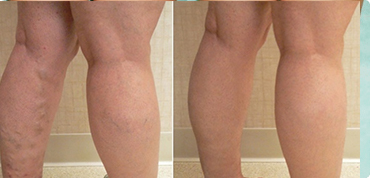
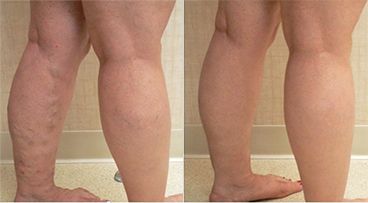
added before, after text to images (helped block)

diff --git a/src/styles/components/helped.scss b/src/styles/components/helped.scss
@@ -1,17 +1,18 @@
 .helped {
     &-block {
-        padding: 60px 0px;
+        padding: 50px 0px;
     }
     &__title {
         max-width: 900px;
-        margin-bottom: 25px;
         padding-top: 23px;
+        margin: 0 auto 34px;
     }
     &__list {
         display: flex;
         justify-content: space-between;
         align-items: center;
         margin-bottom: 30px;
+        flex-grow: 1;
     }
     .item {
         max-width: 369px;
@@ -19,7 +20,35 @@
             margin-right: 10px;
         }
         &__img {
+            position: relative;
             margin-bottom: 16px;
+            img {
+                display: block;
+                border-radius: 5px;
+                min-width: 368px;
+                max-height: 176px;
+            }
+            &::before,
+            &:after {
+                position: absolute;
+                width: 50%;
+                height: 25px;
+                bottom: 0;
+                text-align: center;
+                color: #fff;
+                font-size: 20px;
+                line-height: 27px;
+            }
+            &::before {
+                content: "До";
+                background-color: #f77d2f;
+                left: 0;
+            }
+            &::after {
+                content: "После";
+                background-color: #48afcd;
+                right: 0;
+            }
         }
         &__person {
             text-align: center;
